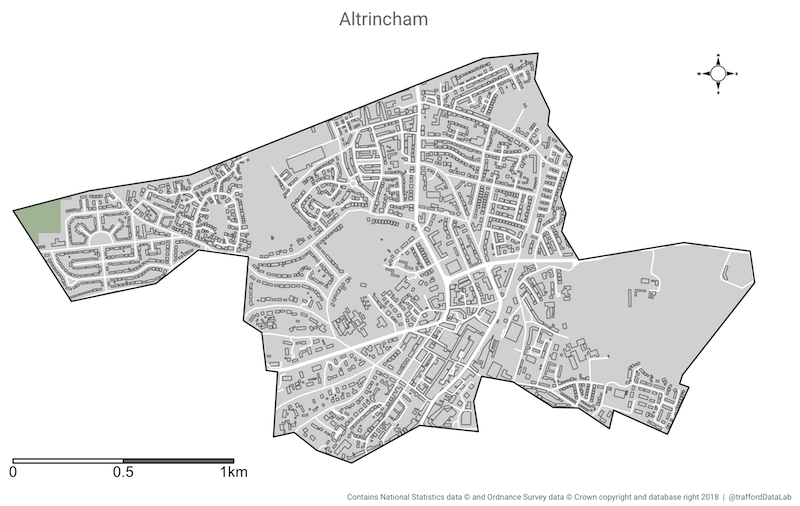
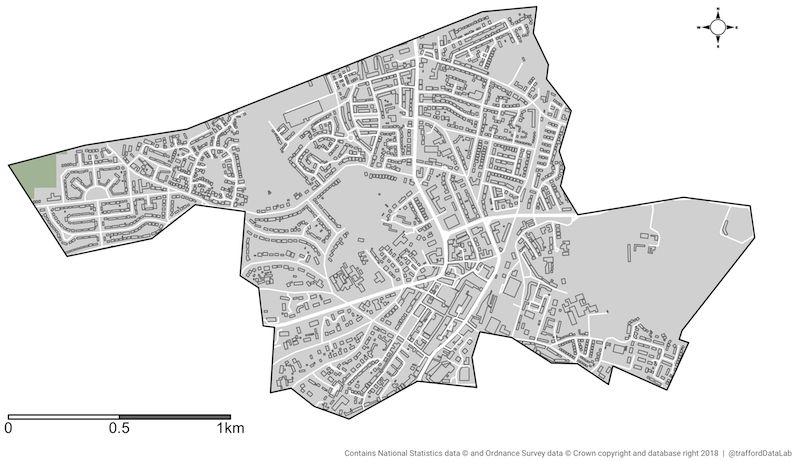
Increased dpi on map image

diff --git a/interactive/ward_profiler/overview/E05000819.html b/interactive/ward_profiler/overview/E05000819.html
@@ -1,6 +1,6 @@
 <div style="max-width: 800px; margin: auto;">
-    <img src="img/E05000819.png" width="100%" style="margin-bottom: 20px;"/>
-    <img src="img/E05000819_thumbnail.png" width="80" height="80" style="float: left; margin-right: 10px; margin-bottom: 10px;">
+    <img src="https://github.com/traffordDataLab/info/raw/ward_profiler/interactive/ward_profiler/overview/img/E05000819.png" width="100%" style="margin-bottom: 20px;"/>
+    <img src="https://github.com/traffordDataLab/info/raw/ward_profiler/interactive/ward_profiler/overview/img/E05000819_thumbnail.png" width="80" height="80" style="float: left; margin-right: 10px; margin-bottom: 10px;">
     <p>Altrincham is a sub-regional shopping centre, and Trafford's largest town. It's at the hub of south Manchester's modern transport infrastructure, complemented by an integrated rail, Metrolink and bus Interchange, which is undergoing redevelopment. It also acts as the commercial centre for the area providing extensive office accommodation. It has an historic market quarter, which regeneration works continue to modernise and upgrade.</p>
     <p>Major developments have taken place within the ward including the refurbishment of Altrincham Town Hall, a new piece of public art in the grounds of the Town Hall, Silver Blades Ice Rink, a six-screen Apollo Cinema including private car park, Altair, a proposed major development to include retail, leisure and housing, and the Stamford Quarter Retail Centre.</p>
 </div>

diff --git a/interactive/ward_profiler/overview/template.html b/interactive/ward_profiler/overview/template.html
@@ -1,6 +1,6 @@
 <div style="max-width: 800px; margin: auto;">
-    <img src="img/E05000819.png" width="100%" style="margin-bottom: 20px;"/>
-    <img src="img/E05000819_thumbnail.png" width="50" height="80" style="float: left; margin-right: 10px; margin-bottom: 10px;">
+    <img src="https://github.com/traffordDataLab/info/raw/ward_profiler/interactive/ward_profiler/overview/img/E05000819.png" width="100%" style="margin-bottom: 20px;"/>
+    <img src="https://github.com/traffordDataLab/info/raw/ward_profiler/interactive/ward_profiler/overview/img/E05000819_thumbnail.png" width="80" height="80" style="float: left; margin-right: 10px; margin-bottom: 10px;">
     <p>Altrincham is a sub-regional shopping centre, and Trafford's largest town. It's at the hub of south Manchester's modern transport infrastructure, complemented by an integrated rail, Metrolink and bus Interchange, which is undergoing redevelopment. It also acts as the commercial centre for the area providing extensive office accommodation. It has an historic market quarter, which regeneration works continue to modernise and upgrade.</p>
     <p>Major developments have taken place within the ward including the refurbishment of Altrincham Town Hall, a new piece of public art in the grounds of the Town Hall, Silver Blades Ice Rink, a six-screen Apollo Cinema including private car park, Altair, a proposed major development to include retail, leisure and housing, and the Stamford Quarter Retail Centre.</p>
 </div>
